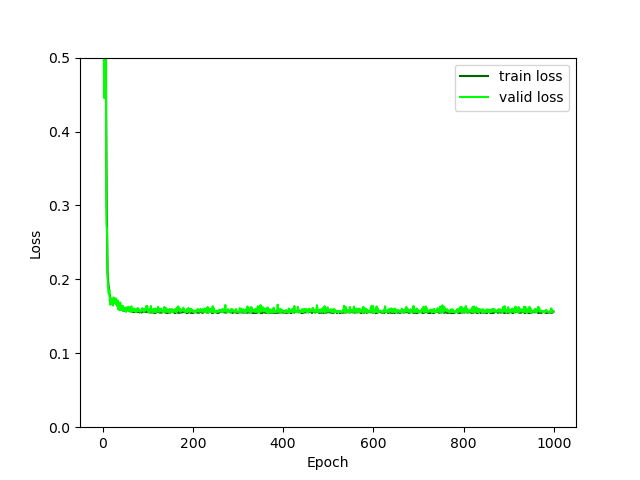
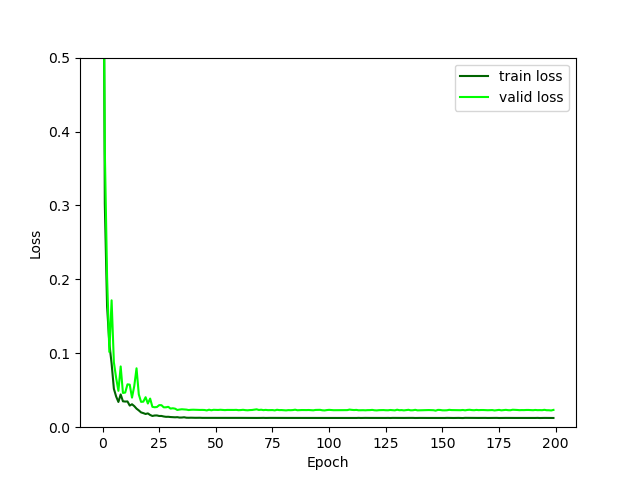
fixed implementation errors

diff --git a/brainclip/model/network/brain_CLIP_model.py b/brainclip/model/network/brain_CLIP_model.py
@@ -88,7 +88,8 @@ class BrainCLIP(nn.Module):
             embedding_dim=self.text_encoder.embedding_size,
             projection_dim=self.text_encoder.embedding_size)
         self.temperature = nn.Parameter(torch.tensor([0.07]), requires_grad=True) # 0.07 in paper
-        self.parameter_list = nn.ParameterList([self.temperature])
+        self.loss_weight = nn.Parameter(torch.tensor([0.5]), requires_grad=True)
+        self.parameter_list = nn.ParameterList([self.temperature, self.loss_weight])
         #self.temperature = 1 #0.07
 
     def cross_entropy(self, preds, targets, reduction='none'):
@@ -111,7 +112,7 @@ class BrainCLIP(nn.Module):
         texts_loss = self.cross_entropy(logits, targets, reduction='none')
         images_loss = self.cross_entropy(logits.T, targets.T, reduction='none')
 
-        loss =  (images_loss*0.9 + texts_loss*0.1) / 2.0 # shape: (batch_size)
+        loss = (self.loss_weight*images_loss + (1-self.loss_weight)*texts_loss) / logits.size(0) # shape: (batch_size)
         return loss.mean()
 
     def forward(self, image, input_id_report, attention_mask_report):
@@ -125,7 +126,7 @@ class BrainCLIP(nn.Module):
         ctrs_loss = self.contrastive_loss(image_embedding, text_embedding)
         return ctrs_loss
 
-
+"""
 
 
 
@@ -138,8 +139,10 @@ class BrainCLIPClassifier(nn.Module):
         # brainCLIP
         self.inference = inference
         self.model = brainclip_model
+
         self.image_encoder = self.model.image_encoder
         self.text_encoder = self.model.text_encoder
+
         self.image_projection = ProjectionHead(
             embedding_dim=self.image_encoder.embedding_size,
             projection_dim=self.image_encoder.embedding_size)
@@ -182,34 +185,28 @@ class BrainCLIPClassifier(nn.Module):
         if self.inference: return logits
         else: return self.classification_loss(logits, label)
 
+"""
 
-
-class BrainCLIPClassifier(nn.Module):
-    def __init__(self, brainclip_model, num_classes, inference=False):
-        super(BrainCLIPClassifier, self).__init__()
+class BrainCLIPClassifier(BrainCLIP):
+    def __init__(self, image_encoder, text_encoder, num_classes, inference=False):
+        super().__init__(image_encoder, text_encoder)
         self.num_classes = num_classes
+        self.inference=inference
 
-        # brainCLIP
-        self.inference = inference
-        self.model = brainclip_model
-        self.image_encoder = self.model.image_encoder
-        self.image_projection = ProjectionHead(
-            embedding_dim=self.image_encoder.embedding_size,
-            projection_dim=self.image_encoder.embedding_size)
-        
         # classification nn
         n_nodes = self.image_encoder.embedding_size
-        self.fc1 = nn.Linear(n_nodes, 400)
-        self.relu1 = nn.ReLU()
-        self.fc2 = nn.Linear(400, 200)
-        self.relu2 = nn.ReLU()
-        self.fc3 = nn.Linear(200, num_classes)
-        self.relu3 = nn.ReLU()
-        self.softmax = nn.Softmax(dim=1)
+        self.braincls_fc1 = nn.Linear(n_nodes, 2) # 400
+        #with torch.no_grad(): self.braincls_fc1.weight.copy_(torch.Tensor([0.5]))
+        #self.braincls_relu1 = nn.ReLU()
+        #self.braincls_fc2 = nn.Linear(400, 200)
+        #self.braincls_relu2 = nn.ReLU()
+        #self.braincls_fc3 = nn.Linear(200, num_classes)
+        #self.braincls_relu3 = nn.ReLU()
+        self.braincls_softmax = nn.Softmax(dim=1)
 
 
     def classification_loss(self, cls_output, label):
-        loss = nn.CrossEntropyLoss()
+        loss = nn.BCELoss()
         return loss(cls_output, label)
 
     def forward(self, image, input_id_report, attention_mask_report, label):
@@ -218,13 +215,18 @@ class BrainCLIPClassifier(nn.Module):
         image_embedding = self.image_projection(image_embedding)        
 
         # classification
-        x = self.fc1(image_embedding)
-        x = self.relu1(x)
-        x = self.fc2(x)
-        x = self.relu2(x)
-        x = self.fc3(x)
-        x = self.relu3(x)
-        logits = self.softmax(x)
+        x = self.braincls_fc1(image_embedding)
+        #x = self.braincls_relu1(x)
+        #x = self.braincls_fc2(x)
+        #x = self.braincls_relu2(x)
+        #x = self.braincls_fc3(x)
+        #x = self.braincls_relu3(x)
+        logits = self.braincls_softmax(x)
         
-        if self.inference: return logits
+        if self.inference: 
+            return logits
         else: return self.classification_loss(logits, label)
+
+
+
+

diff --git a/brainclip/model/inference/find_match.py b/brainclip/model/inference/find_match.py
@@ -1,7 +1,7 @@
 from brainclip.config import *
 import torch
 from transformers import DistilBertTokenizer
-from brainclip.model.utils.file_utils import get_device, load_BrainCLIP
+from brainclip.model.utils.file_utils import get_device
 from brainclip.model.network.data_loader import BrainCLIPDataLoader
 from brainclip.model.utils.processing import tokenize
 import torch.nn.functional as F
@@ -67,7 +67,7 @@ def find_matches(model, device, query, n=5):
     dot_similarity = text_embeddings_n @ image_embeddings_n.T
     
     values, indices = torch.topk(dot_similarity.squeeze(0), n)
-    matches = [f"{torch.argmax(ground_truth[idx])} {image_filenames[idx]}:\t{valid_reports[idx]}\n" for idx in indices]
+    matches = [f"{torch.argmax(ground_truth[idx])} {image_filenames[idx]}:\n{valid_reports[idx]}\n" for idx in indices]
     
     """Plot matches function""" # TODO
 
@@ -77,27 +77,19 @@ def find_matches(model, device, query, n=5):
 
 device = get_device()
 brainclip_model = BrainCLIP(ImageEncoder(), TextEncoder()).to(device) # infarct, normal, others
-brainclip_model = load_BrainCLIP(device, final_model_path, brainclip_model)
-
+loaded_model = torch.load(final_model_path, map_location=device)
+brainclip_model.load_state_dict(loaded_model)
 
 print("\n\n\n")
 
 find_matches(brainclip_model, 
              device,
              query="Infarct",
-             n=3
-             )
-
-print("\n\n\n")
-
-find_matches(brainclip_model, 
-             device,
-             query="No significant abnormality is seen in the brain.",
-             n=1
+             n=5
              )
 
 find_matches(brainclip_model, 
              device,
-             query="hdakjfkjalkfjsa sjflkalkfs",
-             n=3
+             query="No abnormality",
+             n=5
              )

diff --git a/brainclip/model/network/classification.py b/brainclip/model/network/classification.py
@@ -6,25 +6,37 @@ from torch.optim import Adam, SGD
 import torch
 from torch.optim.lr_scheduler import MultiStepLR
 
-
 device = get_device()
 
-brainclip_model = BrainCLIP(ImageEncoder(), TextEncoder()).to(device) # infarct, normal, others
-brainclip_model = load_model(device, final_model_path, brainclip_model)
+model = BrainCLIPClassifier(ImageEncoder(), TextEncoder(), 2).to(device)
+loaded_model = torch.load(final_model_path, map_location=device)
+model.load_state_dict(loaded_model, strict=False)
+for name, param in model.named_parameters():
+    if any([p for p in param if p is None]): print(name)
+    if not name.startswith("braincls_"): param.requires_grad = False
 
-model = BrainCLIPClassifier(brainclip_model, 2).to(device)
 
-train_loader = BrainCLIPDataLoader("train", batch_size=3)
-val_loader = BrainCLIPDataLoader("valid", batch_size=3)
+"""
+for n,p in model.named_parameters():
+    if n.endswith('weight'):
+        if p.grad is None:
+            print('===========\ngradient:{}\n{}'.format(n,p.grad))
+        else:
+            print(f"***** {n} OK")
+"""
+
+train_loader = BrainCLIPDataLoader("train", batch_size=16)
+val_loader = BrainCLIPDataLoader("valid", batch_size=16)
 
 
-learning_rate = 0.00001
-optimizer = SGD(model.parameters(), lr=learning_rate)
+
+learning_rate = 0.001
+optimizer = Adam(model.parameters(), lr=learning_rate)
 scheduler = MultiStepLR(optimizer, 
                         milestones=[10,15,20,30,40,50,60,70], 
                         gamma = 0.1) 
 
-num_epochs = 300
+num_epochs = 50
 train_losses = []
 val_losses = []
 
@@ -63,3 +75,6 @@ for epoch in range(num_epochs):
 
 
 torch.save(model.state_dict(), classification_model_path)
+
+
+

diff --git a/brainclip/model/network/loops.py b/brainclip/model/network/loops.py
@@ -1,5 +1,5 @@
 from brainclip.config import *
-from brainclip.model.utils.file_utils import update_png, get_device, load_BrainCLIP
+from brainclip.model.utils.file_utils import update_png, get_device, load_model
 from brainclip.model.network.brain_CLIP_model import ImageEncoder, TextEncoder, BrainCLIP
 from brainclip.model.network.data_loader import BrainCLIPDataLoader
 import torch.nn as nn
@@ -9,13 +9,13 @@ from torch.optim.lr_scheduler import MultiStepLR
 
 device = get_device()
 
-train_loader = BrainCLIPDataLoader("train", batch_size=2)
-val_loader = BrainCLIPDataLoader("valid", batch_size=2)
+train_loader = BrainCLIPDataLoader("train", batch_size=16)
+val_loader = BrainCLIPDataLoader("valid", batch_size=16)
 
 image_encoder, text_encoder = ImageEncoder(), TextEncoder()
 model = BrainCLIP(image_encoder, text_encoder).to(device) # infarct, normal, others
 
-num_epochs = 1000
+num_epochs = 200
 train_losses = []
 val_losses = []
 
@@ -67,7 +67,7 @@ for epoch in range(num_epochs):
         val_loss /= len(val_loader)
         val_losses.append(val_loss)
     
-    print(f"Epoch {epoch + 1} loss: {epoch_loss:.4f}, val_loss: {val_loss:.4f}, temperature: {model.temperature.item():.4f}, lr: {optimizer.param_groups[0]['lr']}") 
+    print(f"Epoch {epoch + 1} loss: {epoch_loss:.4f}, val_loss: {val_loss:.4f}, temperature: {model.temperature.item():.4f}, loss_weight: {model.loss_weight.item():.4f}, lr: {optimizer.param_groups[0]['lr']}") 
     
     update_png(train_losses, val_losses, "brainclip")
 

diff --git a/brainclip/model/inference/predict_class.py b/brainclip/model/inference/predict_class.py
@@ -9,9 +9,10 @@ import numpy as np
 
 device = get_device()
 
-brainclip_model = BrainCLIP(ImageEncoder(), TextEncoder()).to(device) 
-model = BrainCLIPClassifier(brainclip_model, 2, inference=True).to(device)
-model = load_model(device, classification_model_path, model, inference=True)
+model = BrainCLIPClassifier(ImageEncoder(), TextEncoder(), 2, inference=True).to(device)
+loaded_model = torch.load(classification_model_path, map_location=device)
+model.load_state_dict(loaded_model, strict=False)
+model.eval()
 
 test_loader = BrainCLIPDataLoader("test", batch_size=2)
 
